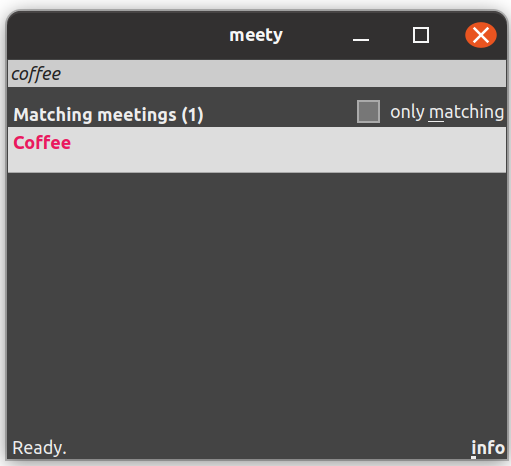
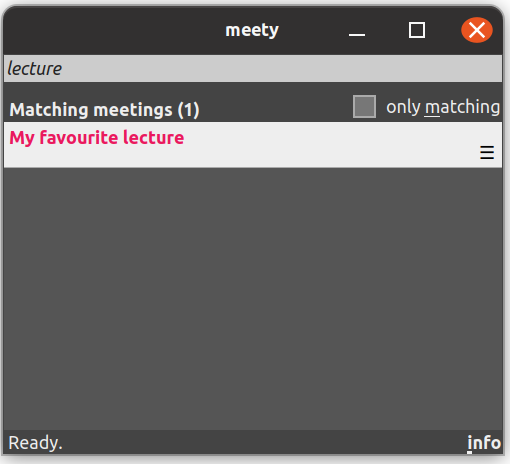
[Doc] Update and Split documentation, hide details

Changed region(s): [[0.0, 0.0, 1.0, 0.9957], [0.6765, 0.0603, 0.7353, 0.0905]]

diff --git a/README.md b/README.md
@@ -12,7 +12,6 @@ _Meety_ aims to provide a quick and easy way to start the right online meeting f
 - sensibly share them with other users, even if they don't use _Meety_.
   (Think of conferences, lectures, ...)
   
-
 **Features.**
 _Meety_ can can load meetings from one or multiple YAML files. The meetings can be filtered by time preferences and/or keywords. After choosing a meeting, _Meety_ will try to connect to it based on the information the meeting provides. 
 
@@ -28,13 +27,15 @@ _Meety_ ships with a graphical user interface (program `meety`, first screenshot
 
 Just follow the three steps below.
 
-
 ### Step 1/3: Install _Meety_
 
-- **If you have Python and PIP installed,** simply run one of the following commands in your shell:
+- **Preferred: If you have Python and PIP installed,** 
+  simply run one of the following commands in your shell:
 	- user only: `pip3 install --user meety`
 	- system-wide: `sudo pip3 install meety`
   You may have to take care that the path to the installation directory known to your system.
+  
+  If the application doesn't run as expected, please consider updating the required packages via the _requirements.txt_ file in this repository: `pip install --upgrade -r requirements.txt`
 - **Alternatively download one of the bundles:**
     - Linux
 		- [Debian package](https://github.com/GaetanoGeck/meety/releases/download/v0.9.2/python3-meety_0.9.2-1_all.deb) (Ubuntu, ...):
@@ -47,20 +48,37 @@ Just follow the three steps below.
             - the graphical user interface (`meety.exe`) and
             - the required libraries.
         3. Extract the archive into a suitable place (e.g. to `C:\Program Files\meety`).
-           Maybe create a shortcut to `meety.exe`.
+           Maybe create a shortcut to `meety.exe` (right click on the program and then select "Send to Desktop").
+
+**Shortcuts.** For convenient use of the graphical user interface, you might want to create shortcuts on your desktop and/or menu.
+- run `meety`
+- click on "info" in the bottom right corner
+- switch tab "System" and click on "create"
+
+_Note:_ For technical reasons, this is currently not guaranteed to work in all environments. In particular, it does not work for the Windows bundle. Sorry!
 
 ### Step 2/3: Add a meetings file
 
-Add a YAML file with meeting specifications to your home directory. You may find it helpful to start with a [template](./docs/quick-start.yaml) whose contents are also shown below.
+Add a YAML file with meeting specifications to your home directory. You may find it helpful to **start with a template:** you may, for instance,
+- **GUI:** run `meety` and, if no meetings are found, click on the button "Create specification from template"
+  (this button can also be found in the "info" dialog, on tab "Files")
+- **CLI:**
+    - copy the contents of [template](./docs/quick-start.yaml), also shown below,
+    - or run `cmeety --init` from the command-line, to create a file named `meetings.yaml` in your home directory.
 
-**Notes:**
+<details>
+<summary>Notes on filenames and directories</summary>
+
 - With the default options, the filename is of no importance as long it has extension `.yaml` or `.yml`.
-- The home directory is usually
+- The home directory is system-specific
 	- `/home/<username>/` on Linux,
 	- `/Users/<username>/` on MacOS and
 	- `C:\Users\<username>\` on Windows.
 - _Meety_ can also load files from other directories than your home directory (and can also ignore those in your home directory). For instance, you can load meetings from file `~/meetings/conferenceA.yaml` only by invoking _Meety_ with arguments `-e -f ~/meetings/conferenceA.yaml`. This is described in more detail in the [documentation](./docs/select-files.md).
 
+</details>
+
+**Example template**
 ```text
 # Example meeting specifications in YAML
 # Text after '#' is ignored by the application
@@ -88,6 +106,9 @@ Add a YAML file with meeting specifications to your home directory. You may find
   zoom-id: 987-654-321
 ```
 
+<details>
+<summary>Some specification details</summary>
+
 **Syntax overview for meeting specifications.**
 Each meeting forms a list entry that is introduced with a dash, `-`. Such an entry is expected to be a dictionary, which can comprise several attributes of the form `key: value`. _Meety_ ignores the case of characters in the key. Values in turn can be text, a list or a dictionary again. To be recognised as a meeting specification, each entry is required to have an attribute with key `name`. This attribute has to be provided explicitly or can be derived automatically from other attributes. Other attributes are optional but may affect querying if they have a text value. More importantly, attributes with some keys, like `url`, `zoom-url` and `prefer` have a special meaning for _Meety_.
 
@@ -98,13 +119,14 @@ This is described in more detail in the [documentation](./docs/configuration.md#
 
 **Support for other languages.**
 Inferred attributes can also be used to make other words understood by _Meety_, in particular words from other languages. _Meety_ currently ships with some English, French, German, Italian and Spanish definitions (which can be enabled or disabled via the configuration), see the [documentation](./docs/configuration.md#languages) for more information.
+</details>
 
 ### Step 3/3: Run _Meety_
 
 The goal of _Meety_ is to help you to connect to the meeting you're looking for quickly and effortlessly.
 First, you have to identify a meeting of course. Then, you can try to connect to it.
 
-**Rating of meetings.**
+**General notes.**
 _Meety_ rates all meetings and shows meetings sorted by their rating (the best matching first). Meetings with equal ratings are shown in the order they have been loaded. Depending on your options, _Meety_ shows all or only matching meetings.
 
 Meetings can be matching with respect to
@@ -113,71 +135,11 @@ Meetings can be matching with respect to
 
 Matching keywords contribute more to the rating than matching time preferences by default.
 
-#### Graphical user interface
+**Application usage.**
+Although the idea of meeting ratings and display is the same, usage natuarlly varies with the user interface. Each interface is described on its own:
+- [Graphical user interface](./docs/gui.md) (program `meety`)
+- [Command-line interface](./docs/cli.md) (program `cmeety`)
 
-After starting _Meety_, the graphical user interface shows meetings according to their rating. Matching entries are highlighted. If you change the text in the search field or as time passes, the rating is updated, which may affect the order of items. By default, _all_ meetings are shown. If you activate the checkbox _only matching_, non-matching meetings are hidden.
-
-<img alt="Screenshot of the graphical user interface with option 'only matching' enabled" src="./docs/screenshots/gui-only_matching.png" width="40%"/>
-
-You can start a meeting with the preferred connection handler by clicking or double-clicking on an item (depending on your system). On a right click on an item, a context menu opens that allows you to choose a specific connection handler, to copy the meeting data and the like.
-
-#### Command-line interface
-
-After loading the meetings specifications, the command-line interface shows all _matching_ meetings. Below, we demonstrate the main options to influence the rating process for the example meetings above.
-
-**Only time preferences.**
-```text
-# -- On a Tuesday at 11:00
-> cmeety
-No meeting found. Goodbye!
-
-# -- On a Tuesday at 12:05
-> cmeety
-There's one matching meeting: My favourite lecture
-Really connect (y/N)?
-
-# -- On a Tuesday at 12:05
-> cmeety --all                           # or '-a' for short
-There are multiple matches:
-  [1] My favourite lecture
-  [2] Coffee
-  [3] Another meeting
-Which one do you want to choose?
-```
-Note that _My favourite lecture_ is the first entry (because it has a matching time preference while others have not).
-
-**Time preferences and meetings.**
-```text
-# -- On a Tuesday at 11:00
-> cmeety meet
-There's one matching meeting: Another meeting
-Really connect (y/N)?
-
-# -- On a Tuesday at 12:05
-> cmeety meet
-There are multiple matches:
-  [1] Another meeting
-  [2] My favourite lecture
-Which one do you want to choose?
-
-# -- On a Tuesday at 12:05
-> cmeety meet --all                     # or '-a' for short
-There are multiple matches:
-  [1] Another meeting
-  [2] My favourite lecture
-  [3] Coffee
-Which one do you want to choose?
-```
-Now, _Another meeting_ is listed first because it matches the query _meet_. Meeting _My favourite lecture_ is listed second because of its matching time preference.
-
-**Filter results.**
-The list of matching meetings can be shortened in many cases with the use of one of the next two options:
-
-- show only meeting with a maximal rating (`-b` or `--best`) or, even more restricted,
-- show only the very first meeting (`-1` or `--first`) with a maximal rating.
-
-**Further options.**
-There are further options. You can get a quick overview with `cmeety --help`.
 
 ## Detailed documentation
 

diff --git a/docs/gui.md b/docs/gui.md
@@ -1,0 +1,56 @@
+# Graphical user interface
+
+After starting _Meety_, the graphical user interface shows meetings according to their rating. Matching entries are highlighted, [according to the active colour scheme](https://github.com/GaetanoGeck/meety/blob/main/docs/configuration.md#colour-schemes).
+
+## Searching
+
+As an example, for those meetings defined in the [template meeting specification](./docs/quick-start.yaml), the app should look as follows after entering "lecture" in the search field at the top.
+
+<img alt="Screenshot of the graphical user interface" src="./screenshots/gui.png" width="40%"/>
+
+**Show only matching meetings.**
+If you change the text in the search field or as time passes, the rating is updated, which may affect the order of items. By default, _all_ meetings are shown. If you activate the checkbox _only matching_, non-matching meetings are hidden.
+
+<img alt="Screenshot of the graphical user interface with option 'only matching' enabled" src="./screenshots/gui-only_matching.png" width="40%"/>
+
+## Selecting a meeting
+
+You can select a meeting by (left) clicking on it or by use of the arrow keys <kbd>Up</kbd> and <kbd>Down</kbd>.
+
+## Start a meeting
+
+You can start a meeting with the _preferred_ connection handler by
+- clicking or double-clicking on an item (depending on your system)
+- or by selecting an item and pressing <kbd>Enter</kbd>.
+
+Note that _other_ connection handlers than the _preferred_ one (if existing) can be chosen via the context menu.
+
+**All actions in the context menu:**
+- Copy the meeting data
+    - either as specified in the YAML file
+    - or as used by _Meety_ internally (possibly cleaned and extended)
+- Select a specific connection handler,
+  useful if there are multiple candidates (Web, Zoom etc.)
+- Ask _Meety_ to reload the YAML files
+
+<img alt="Screenshot of the graphical user interface with context menu" src="./screenshots/gui-context_menu.png" width="40%"/>
+
+The context menu can be opened by a right click on the entry or a normal click on the "☰" symbol in the bottom right of the entry.
+
+## Copying and dragging a meeting
+
+**Drag and drop.** In case you want to share information on a selected meeting quickly with somebody else, you can drag a meeting to a text field. Note that there are two modes affecting the content:
+- minimalistic (by default), which yields a single line of the form `<NAME>: <PREFERRED CONNECTION HANDLER URL>` and
+- more informative (if <kbd>Shift</kbd> is pressed), which yields the YAML entry.
+
+**Keyboard.** Alternatively, you can press the "copy sequence" on your system (probably <kbd>Ctrl+C</kbd>) once, for the minimalistic content, and twice within a short delay, for the more informative content.
+
+## Info dialog
+
+Additional information and actions can be accessed via the info dialog (click on "info" in the bottom right corner of the application). In particular, the various tabs in this dialog allow you to
+- create shortcuts to application `meety`
+- list all the directories and YAML files that have been loaded
+- a textual overview of all present meeting entries
+- a log of errors, warnings and more detailed information
+
+<img alt="Screenshot of the info dialog" src="./screenshots/gui-info_dialog.png" width="40%"/>

diff --git a/docs/cli.md b/docs/cli.md
@@ -1,0 +1,97 @@
+# Command-line interface
+
+After loading the meetings specifications, the command-line interface shows all _matching_ meetings. Below, we demonstrate the main options to influence the rating process for the three example meetings below.
+
+```text
+# Example meeting specifications in YAML
+# Text after '#' is ignored by the application
+
+# FIRST MEETING (Coffee round with colleagues, every morning)
+- name: Coffee
+  zoom-url: https://zoom.us/j/123456789
+  prefer: Monday to Friday, 9 to 10 o'clock
+  # short format for time specifications (also for other languages)
+
+# SECOND MEETING (lecture, each Tuesday and Thursday)
+- name: My favourite lecture
+  url: https://my-university.edu/my-fav-lecture
+  prefer:
+    - weekday: Tuesday
+      time: 12:00 - 14:00
+      date: 2020-10-01 - 2021-03-31
+    - weekday: Thursday
+      time: 14:00 - 16:00
+      date: 2020-10-01 - 2021-03-31
+  # explicit format for time specifications (also for other languages)
+
+# THIRD MEETING (without time preferences)
+- name: Another meeting
+  zoom-id: 987-654-321
+```
+
+## Only time preferences
+
+**Summary:** Don't provide a search query
+- `cmeety` show only meetings with matching time preference
+- `cmeety --all` show all meetings but ranked by matching factor
+
+```text
+```text
+# -- On a Tuesday at 11:00
+> cmeety
+No meeting found. Goodbye!
+
+# -- On a Tuesday at 12:05
+> cmeety
+There's one matching meeting: My favourite lecture
+Really connect (y/N)?
+
+# -- On a Tuesday at 12:05
+> cmeety --all                           # or '-a' for short
+There are multiple matches:
+  [1] My favourite lecture
+  [2] Coffee
+  [3] Another meeting
+Which one do you want to choose?
+```
+Note that _My favourite lecture_ is the first entry (because it has a matching time preference while others have not).
+
+## Time preferences and search query
+
+**Summary:** Provide a search query (e.g. "meet")
+- `cmeety meet` show only meetings with matching time or query preference
+- `cmeety meet --all` show all meetings but ranked by matching factor
+
+```text
+# -- On a Tuesday at 11:00
+> cmeety meet
+There's one matching meeting: Another meeting
+Really connect (y/N)?
+
+# -- On a Tuesday at 12:05
+> cmeety meet
+There are multiple matches:
+  [1] Another meeting
+  [2] My favourite lecture
+Which one do you want to choose?
+
+# -- On a Tuesday at 12:05
+> cmeety meet --all                     # or '-a' for short
+There are multiple matches:
+  [1] Another meeting
+  [2] My favourite lecture
+  [3] Coffee
+Which one do you want to choose?
+```
+Now, _Another meeting_ is listed first because it matches the query _meet_. Meeting _My favourite lecture_ is listed second because of its matching time preference.
+
+## Filter results
+
+The list of matching meetings can be shortened in many cases with the use of one of the next two options:
+
+- show only meeting with a maximal rating (`-b` or `--best`) or, even more restricted,
+- show only the very first meeting (`-1` or `--first`) with a maximal rating.
+
+## Further options
+
+There are further options. You can get a quick overview with `cmeety --help`.

diff --git a/CONTRIBUTORS.md b/CONTRIBUTORS.md
@@ -17,3 +17,4 @@ Early on we wanted to open source _Meety_ but due to a number of other tasks, we
 **Thanks also to**
 
 - Jonas Schmidt for helpful comments
+- Andre Thevapalan for noting problems with outdated packages
